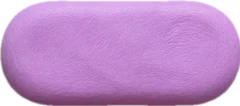
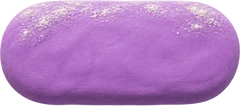
Yeni hamur varlıkları: altı renk hap düğme, yıldızlar, duraklat, katmanlı ana ekran ve bölüm yolu
Claude-Session: https://claude.ai/code/session_013YjY38wA9HkTsRWqx1GxrD

diff --git a/www/sw.js b/www/sw.js
@@ -1,6 +1,6 @@
 // Çevrimdışı: önbellekten anında aç, arkada güncelle (stale-while-revalidate).
 // Yeni dosya eklenince F listesine girer (robot www/ ile listeyi karşılaştırır: tools/hakem.cjs "sw.liste").
-const C = 'hamur-v21', F = ['./', 'index.html', 'style.css', 'i18n.js', 'ses.js', 'olcum.js', 'ads.js', 'shop.js', 'app.js', 'game.js', 'ekran.js', 'acilis.js', 'bolumler.js', 'rules/cekirdek.js', 'rules/cozucu.js', 'font/baloo-latin-ext.woff2', 'font/baloo-latin.woff2', 'font/titan-latin-ext.woff2', 'font/titan-latin.woff2', 'img/acilis.webp', 'img/akrep.webp', 'img/ana.webp', 'img/ayarlar.webp', 'img/bastan.webp', 'img/blok.webp', 'img/bulut-1.webp', 'img/bulut-2.webp', 'img/bulut-3.webp', 'img/bulut-4.webp', 'img/bulut-5.webp', 'img/bulut-6.webp', 'img/canta.webp', 'img/damgalar.webp', 'img/doku.webp', 'img/duvar.webp', 'img/el.webp', 'img/figur-1.webp', 'img/figur-2.webp', 'img/figur-3.webp', 'img/figur-4.webp', 'img/figur-5.webp', 'img/figur-6.webp', 'img/geri.webp', 'img/girdap.webp', 'img/gok2.webp', 'img/gunluk.webp', 'img/hap-kirmizi.webp', 'img/hap-mor.webp', 'img/hap-sari.webp', 'img/hap-yesil.webp', 'img/hucre.webp', 'img/ikon-192.png', 'img/ikon-512.png', 'img/kadran.webp', 'img/kapat.webp', 'img/kayip-sure.webp', 'img/kayip-yapisma.webp', 'img/kazanc.webp', 'img/kilit.webp', 'img/klaket.webp', 'img/kurabiye-bos.webp', 'img/kurabiye-kilitli.webp', 'img/kurabiye-siradaki.webp', 'img/kurabiye-tamam.webp', 'img/logo.webp', 'img/makas-kapali.webp', 'img/makas.webp', 'img/n-ay.webp', 'img/n-cirpici-1.webp', 'img/n-cirpici-2.webp', 'img/n-donut.webp', 'img/n-ev.webp', 'img/n-merdiven.webp', 'img/n-oklava.webp', 'img/n-seker.webp', 'img/oynat.webp', 'img/panel.webp', 'img/parcacik.webp', 'img/saat.webp', 'img/ses.webp', 'img/sessiz.webp', 'img/tepsi.webp', 'img/top-kirmizi.webp', 'img/top-mor.webp', 'img/top-sari.webp', 'img/top-yesil.webp', 'img/yildiz.webp', 'img/yol.webp', 'img/yuz-dikey.webp', 'img/yuzler.webp', ...['de', 'es', 'pt-BR', 'fr'].map(l => `lang/${l}.js`), 'ses/muzik.mp3', 'manifest.json'];
+const C = 'hamur-v22', F = ['./', 'index.html', 'style.css', 'i18n.js', 'ses.js', 'olcum.js', 'ads.js', 'shop.js', 'app.js', 'game.js', 'ekran.js', 'acilis.js', 'bolumler.js', 'rules/cekirdek.js', 'rules/cozucu.js', 'font/baloo-latin-ext.woff2', 'font/baloo-latin.woff2', 'font/titan-latin-ext.woff2', 'font/titan-latin.woff2', 'img/acilis.webp', 'img/ada.webp', 'img/akrep.webp', 'img/ayarlar.webp', 'img/bastan.webp', 'img/blok.webp', 'img/bulut-1.webp', 'img/bulut-2.webp', 'img/bulut-3.webp', 'img/bulut-4.webp', 'img/bulut-5.webp', 'img/bulut-6.webp', 'img/canta.webp', 'img/damgalar.webp', 'img/doku.webp', 'img/duraklat.webp', 'img/duvar.webp', 'img/el.webp', 'img/figur-1.webp', 'img/figur-2.webp', 'img/figur-3.webp', 'img/figur-4.webp', 'img/figur-5.webp', 'img/figur-6.webp', 'img/geri.webp', 'img/girdap.webp', 'img/gok.webp', 'img/gok2.webp', 'img/gunluk.webp', 'img/hap-kirmizi.webp', 'img/hap-mavi.webp', 'img/hap-mor.webp', 'img/hap-sari.webp', 'img/hap-turuncu.webp', 'img/hap-yesil.webp', 'img/hucre.webp', 'img/ikon-192.png', 'img/ikon-512.png', 'img/kadran.webp', 'img/kapat.webp', 'img/kayip-sure.webp', 'img/kayip-yapisma.webp', 'img/kazanc.webp', 'img/kilit.webp', 'img/klaket.webp', 'img/kurabiye-bos.webp', 'img/kurabiye-kilitli.webp', 'img/kurabiye-siradaki.webp', 'img/kurabiye-tamam.webp', 'img/logo.webp', 'img/makas-kapali.webp', 'img/makas.webp', 'img/n-ay.webp', 'img/n-cirpici-1.webp', 'img/n-cirpici-2.webp', 'img/n-donut.webp', 'img/n-ev.webp', 'img/n-merdiven.webp', 'img/n-oklava.webp', 'img/n-seker.webp', 'img/oynat.webp', 'img/panel.webp', 'img/parcacik.webp', 'img/saat.webp', 'img/ses.webp', 'img/sessiz.webp', 'img/sus-1.webp', 'img/sus-10.webp', 'img/sus-2.webp', 'img/sus-3.webp', 'img/sus-4.webp', 'img/sus-5.webp', 'img/sus-6.webp', 'img/sus-7.webp', 'img/sus-8.webp', 'img/sus-9.webp', 'img/tepsi.webp', 'img/top-kirmizi.webp', 'img/top-mor.webp', 'img/top-sari.webp', 'img/top-yesil.webp', 'img/yildiz-bos.webp', 'img/yildiz-yuz.webp', 'img/yildiz.webp', 'img/yol.webp', 'img/yuz-dikey.webp', 'img/yuzler.webp', ...['de', 'es', 'pt-BR', 'fr'].map(l => `lang/${l}.js`), 'ses/muzik.mp3', 'manifest.json'];
 self.addEventListener('install', e => e.waitUntil(caches.open(C).then(c => c.addAll(F)).then(() => self.skipWaiting())));
 self.addEventListener('activate', e => e.waitUntil(caches.keys().then(k => Promise.all(k.filter(x => x !== C).map(x => caches.delete(x)))).then(() => self.clients.claim())));
 self.addEventListener('fetch', e => {

diff --git a/www/style.css b/www/style.css
@@ -351,3 +351,31 @@ body.gunluk-acik .hud{background:rgba(255,250,244,.86);border-radius:22px;paddin
 .ekran.giris{animation-duration:.36s}
 /* bilgi baloncuğu (+15 sn) */
 .tost.kisa{animation:tost .9s ease both}
+
+/* ================= yeni hamur varlıkları ================= */
+body{background:#c9a8ee url(img/gok.webp) center/cover no-repeat fixed}
+body.ana-acik{background:#c9a8ee url(img/gok.webp) center/cover no-repeat fixed}
+body.ana-acik .gok{opacity:1}
+/* ana ekran: karakterli ada altta ayrı katman */
+#sAna{position:relative}
+#sAna .ada{position:absolute;left:50%;bottom:-2vh;width:min(112%,560px);max-height:46vh;object-fit:contain;object-position:center bottom;transform:translateX(-50%);z-index:0;filter:drop-shadow(0 14px 16px rgba(70,30,120,.3));animation:salin 6s ease-in-out infinite;pointer-events:none}
+#sAna>*:not(.ada){position:relative;z-index:1}
+@keyframes salin{50%{transform:translateX(-50%) translateY(-7px)}}
+/* düğmeler: altı renk hamur hap */
+.hap.mavi{border-image-source:url(img/hap-mavi.webp);color:#0d2f66}
+.hap.turuncu{border-image-source:url(img/hap-turuncu.webp);color:#5c2a05}
+#bOyna{border-image-source:url(img/hap-yesil.webp);color:#173d0c}
+#bYol{border-image-source:url(img/hap-mavi.webp);color:#0d2f66}
+#bTepsi{border-image-source:url(img/hap-mor.webp);color:#3b1d5c}
+#ovB{border-image-source:url(img/hap-yesil.webp);color:#173d0c}
+#ovB2{border-image-source:url(img/hap-turuncu.webp);color:#5c2a05}
+#duraklat{background-image:url(img/duraklat.webp)}
+#duraklat i{display:none}
+/* bölüm yolu: gökyüzü sabit, yol şeridi ve süsler kayar */
+#sYol{background:url(img/gok.webp) center/cover no-repeat}
+.karo{aspect-ratio:560/1120;background:url(img/yol.webp) center/100% 100% no-repeat}
+.sus{position:absolute;width:30%;aspect-ratio:1;background:center/contain no-repeat;transform:translate(-50%,-50%);filter:drop-shadow(0 6px 5px rgba(70,30,120,.25));pointer-events:none}
+.durak{width:17%}
+.durak em i.bos{background-image:url(img/yildiz-bos.webp);filter:none}
+.tost .yildiz{letter-spacing:0}
+@media (prefers-reduced-motion:reduce){#sAna .ada{animation:none}}

diff --git a/www/ekran.js b/www/ekran.js
@@ -49,7 +49,7 @@ function ana() {
 
 /* ---------- bölüm yolu ---------- */
 // Bir karoda 11 kurabiye var (alttan üste yol sırası). Konumlar karonun eni ve boyuna göre oran (bolum-yolu-tekrar görselinden ölçüldü).
-const DURAK = [[.4874, .8856], [.5009, .7703], [.335, .691], [.569, .643], [.5759, .5328], [.3443, .4906], [.4033, .3848], [.6404, .358], [.5544, .267], [.3539, .1776], [.4983, .0873]];
+const DURAK = [[0.4982,0.955],[0.4179,0.8641],[0.2571,0.7732],[0.3063,0.6823],[0.5723,0.5914],[0.725,0.5005],[0.5634,0.4096],[0.2732,0.3187],[0.2643,0.2278],[0.4464,0.1369],[0.5045,0.046]];
 function yol() {
   const el = $('yol'), sira = siradaki(); el.innerHTML = '';
   const karoSay = Math.ceil(N / DURAK.length);
@@ -69,6 +69,8 @@ function yol() {
       if (n === sira) hedef = b;
       karo.appendChild(b);
     });
+    // süsler: yolun karşı tarafında, karoya göre değişen adacıklar (ayrı katman: yol ekran görüntüsü gibi durmasın)
+    [.14, .47, .8].forEach((fy, j) => { const d = DURAK.reduce((p, c) => Math.abs(c[1] - fy) < Math.abs(p[1] - fy) ? c : p), su = document.createElement('i'); su.className = 'sus'; su.style.backgroundImage = `url(img/sus-${(k * 3 + j) % 10 + 1}.webp)`; su.style.top = fy * 100 + '%'; su.style.left = (d[0] < .5 ? 78 : 22) + '%'; karo.appendChild(su); });
     el.appendChild(karo);
   }
   // sıradaki bölüm ekranın ortasına gelsin

diff --git a/www/index.html b/www/index.html
@@ -19,6 +19,7 @@
 <div class="gok" aria-hidden="true"><i class="b1"></i><i class="b2"></i><i class="b3"></i><i class="b4"></i><i class="b5"></i><i class="b6"></i><b class="n-ay"></b><b class="n-c1"></b><b class="n-c2"></b><b class="n-merdiven"></b><b class="n-ev"></b><b class="n-seker"></b><b class="n-donut"></b><b class="n-oklava"></b></div>
 <section class="ekran" id="sAna" hidden>
   <header class="ust"><span></span><button class="top" id="bAyar" type="button" aria-label="Ayarlar" data-en-label="Settings"><i style="background-image:url(img/ayarlar.webp)"></i></button></header>
+  <img class="ada" src="img/ada.webp" alt="" aria-hidden="true">
   <div class="baslik-yeri"><img class="logo" src="img/logo.webp" alt="Dough!" width="640" height="266"></div>
   <div class="ana-dugmeler">
     <button class="hap sari buyuk" id="bOyna" type="button"><b data-en="Play">Oyna</b><small id="oynaNo"></small></button>
